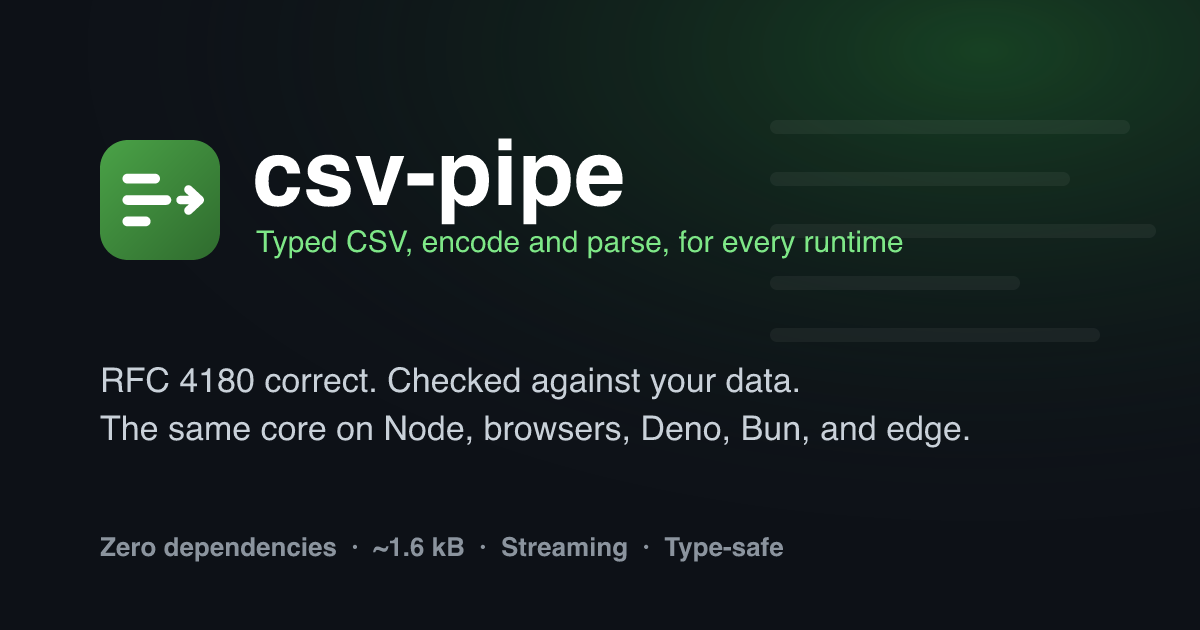
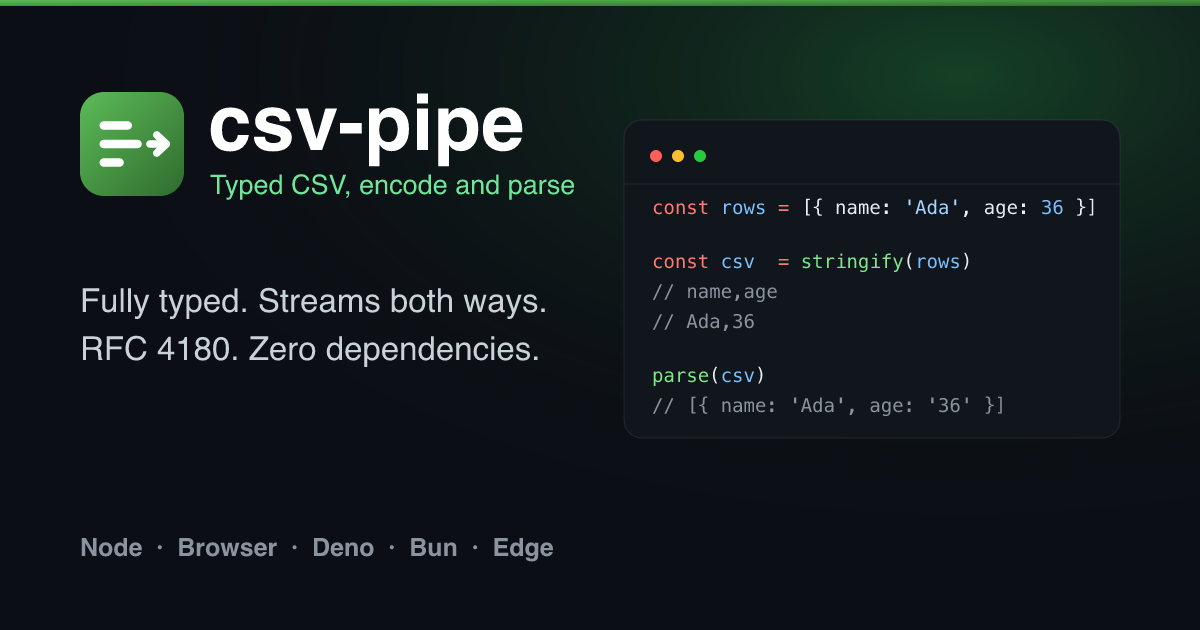
chore(release): prepare 2.0.0 (lean package, polished OG and pipelines, aligned docs and size budgets)

diff --git a/docs/.vitepress/config.ts b/docs/.vitepress/config.ts
@@ -1,6 +1,6 @@
 import { transformerTwoslash } from '@shikijs/vitepress-twoslash';
 import { fileURLToPath } from 'node:url';
-import { defineConfig } from 'vitepress';
+import { defineConfig, type MarkdownOptions } from 'vitepress';
 import typedocSidebar from '../api/typedoc-sidebar.json';
 
 const srcRoot = fileURLToPath(new URL('../../src', import.meta.url));
@@ -31,6 +31,9 @@ export default defineConfig({
   sitemap: { hostname: 'https://martsinlabs.github.io/csv-pipe/' },
   markdown: {
     codeTransformers: [
+      // transformerTwoslash is typed against its own @shikijs/types copy, which
+      // differs from the one vitepress bundles; the shapes match at runtime, so
+      // cast to the transformer type vitepress expects.
       transformerTwoslash({
         twoslashOptions: {
           compilerOptions: {
@@ -42,7 +45,7 @@ export default defineConfig({
             }
           }
         }
-      })
+      }) as unknown as NonNullable<MarkdownOptions['codeTransformers']>[number]
     ]
   },
   head: [
@@ -72,12 +75,29 @@ export default defineConfig({
         content: 'https://martsinlabs.github.io/csv-pipe/og.png'
       }
     ],
+    ['meta', { property: 'og:image:type', content: 'image/png' }],
+    ['meta', { property: 'og:image:width', content: '1200' }],
+    ['meta', { property: 'og:image:height', content: '630' }],
+    [
+      'meta',
+      {
+        property: 'og:image:alt',
+        content: 'csv-pipe: typed CSV encode and parse for every runtime'
+      }
+    ],
     ['meta', { name: 'twitter:card', content: 'summary_large_image' }],
     [
       'meta',
       {
         name: 'twitter:image',
         content: 'https://martsinlabs.github.io/csv-pipe/og.png'
+      }
+    ],
+    [
+      'meta',
+      {
+        name: 'twitter:image:alt',
+        content: 'csv-pipe: typed CSV encode and parse for every runtime'
       }
     ]
   ],

diff --git a/tsup.config.ts b/tsup.config.ts
@@ -9,7 +9,7 @@ export default defineConfig({
   format: ['esm', 'cjs'],
   dts: false,
   clean: true,
-  sourcemap: true,
+  sourcemap: false,
   treeshake: true,
   splitting: false,
   minify: false,

diff --git a/README.md b/README.md
@@ -48,7 +48,7 @@ The header comes from the record keys, quoting and escaping are correct out of t
 - **Runs where your code runs.** The core imports no `fs` and no DOM, and streaming returns a Web `ReadableStream`. One import for Node, the browser, Deno, Bun, and edge.
 - **Flat memory.** Parsing streams one record at a time, and encoding does too once the columns are declared, so a file or an HTTP body of any size stays at flat memory.
 - **Safe by a flag.** `sanitizeFormulas` neutralizes spreadsheet formula injection, so you never hand-sanitize cells.
-- **Fast and small.** The fastest common parser by a wide margin, and the fastest or on-par encoder, across every [benchmark](https://martsinlabs.github.io/csv-pipe/guide/benchmarks), at under 2 kB per direction with zero dependencies.
+- **Fast and small.** The fastest common parser by a wide margin, and the fastest or on-par encoder, across every [benchmark](https://martsinlabs.github.io/csv-pipe/guide/benchmarks), at about 2 kB per direction with zero dependencies.
 
 ## Documentation
 

diff --git a/docs/guide/why.md b/docs/guide/why.md
@@ -19,7 +19,7 @@ description: Typed columns, two-way streaming, formula-injection safety, and RFC
   injection (cells starting with `=`, `+`, `-`, `@`, a tab, or a carriage
   return), so you never hand-sanitize cells.
 - **Fast and small.** The fastest common parser by a wide margin, and the
-  fastest or on-par encoder, across every benchmark, at under 2 kB per direction
+  fastest or on-par encoder, across every benchmark, at about 2 kB per direction
   with zero dependencies.
 
 ## A typo never ships

diff --git a/docs/index.md b/docs/index.md
@@ -51,7 +51,7 @@ features:
       width: 28
       height: 28
     title: Fast and small
-    details: The fastest common parser by a wide margin, and the fastest or on-par encoder, across every benchmark, at under 2 kB per direction with zero dependencies.
+    details: The fastest common parser by a wide margin, and the fastest or on-par encoder, across every benchmark, at about 2 kB per direction with zero dependencies.
 ---
 
 <div style="max-width: 960px; margin: 4rem auto 0; padding: 0 24px;">